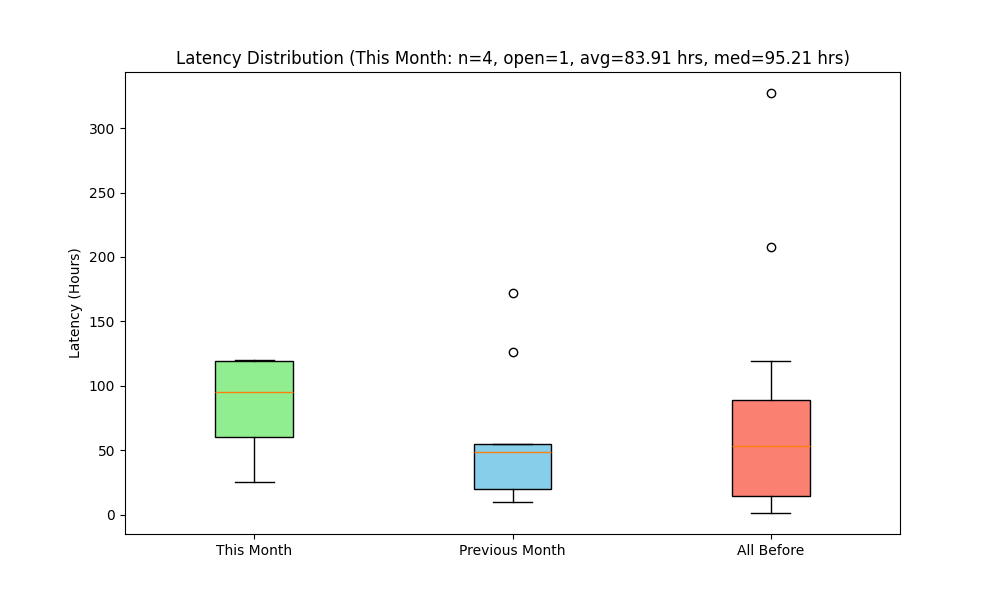
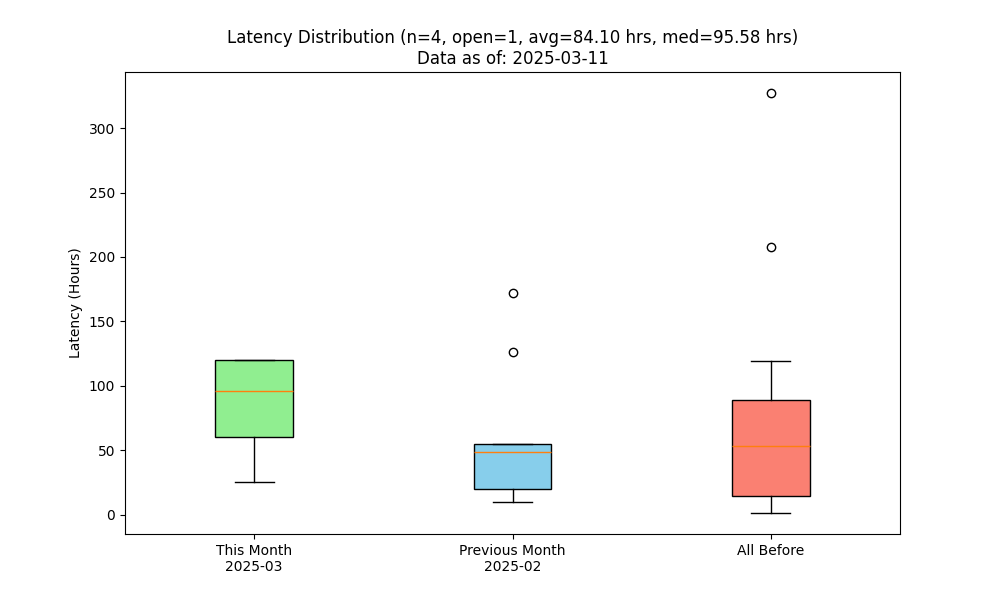
Update plot to show the recency of it.

diff --git a/plot_pr_delays.py b/plot_pr_delays.py
@@ -53,9 +53,18 @@ def main():
         return "All Before"
     df['group'] = df['closed_at'].apply(assign_group)
 
-    # Define the group order
+    # Define the group order and data for plotting
     groups = ["This Month", "Previous Month", "All Before"]
     data_to_plot = [df[df['group'] == g]['latency'].dropna() for g in groups]
+    # Define new x-axis labels with month-year for 'This Month' and 'Previous Month'
+    this_month_label_plot = f"This Month\n{now.strftime('%Y-%m')}"
+    previous_month_label_plot = f"Previous Month\n{(now - pd.DateOffset(months=1)).strftime('%Y-%m')}"
+    all_before_label_plot = "All Before"
+    plot_labels = [this_month_label_plot, previous_month_label_plot, all_before_label_plot]
+    # Create figure for the plot
+    plt.figure(figsize=(10, 6))
+
+    bp = plt.boxplot(data_to_plot, labels=plot_labels, patch_artist=True)
 
     # Compute summary statistics for 'This Month'
     this_month_data = df[df['group'] == "This Month"]['latency']
@@ -63,13 +72,11 @@ def main():
         count = this_month_data.count()
         mean_val = this_month_data.mean()
         median_val = this_month_data.median()
-        title = (f"Latency Distribution (This Month: n={count}, open={open_pr_count}, "
-                 f"avg={mean_val:.2f} hrs, med={median_val:.2f} hrs)")
+        title = (f"Latency Distribution (n={count}, open={open_pr_count}, avg={mean_val:.2f} hrs, med={median_val:.2f} hrs)\n"
+                 f"Data as of: {now.strftime('%Y-%m-%d')}")
     else:
-        title = f"Latency Distribution (This Month: No data, open={open_pr_count})"
+        title = f"Latency Distribution (No data, open={open_pr_count})\nData as of: {now.strftime('%Y-%m-%d')}"
 
-    plt.figure(figsize=(10, 6))
-    bp = plt.boxplot(data_to_plot, labels=groups, patch_artist=True)
     # Define colors for each group
     colors = ['lightgreen', 'skyblue', 'salmon']
     for patch, color in zip(bp['boxes'], colors):
